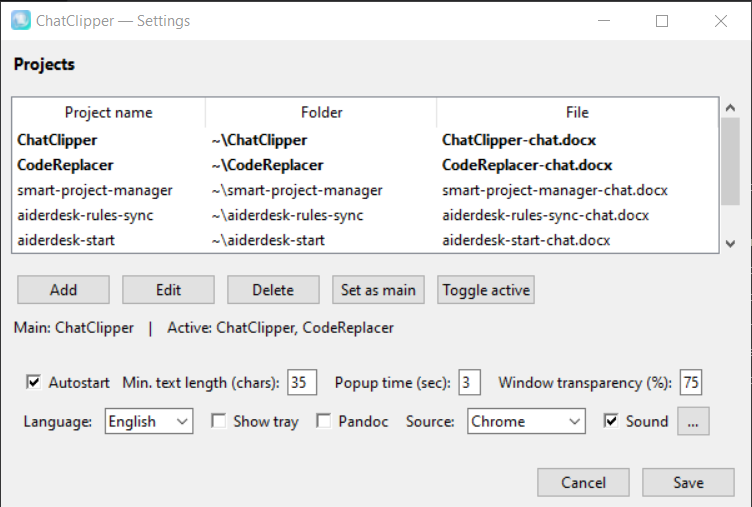
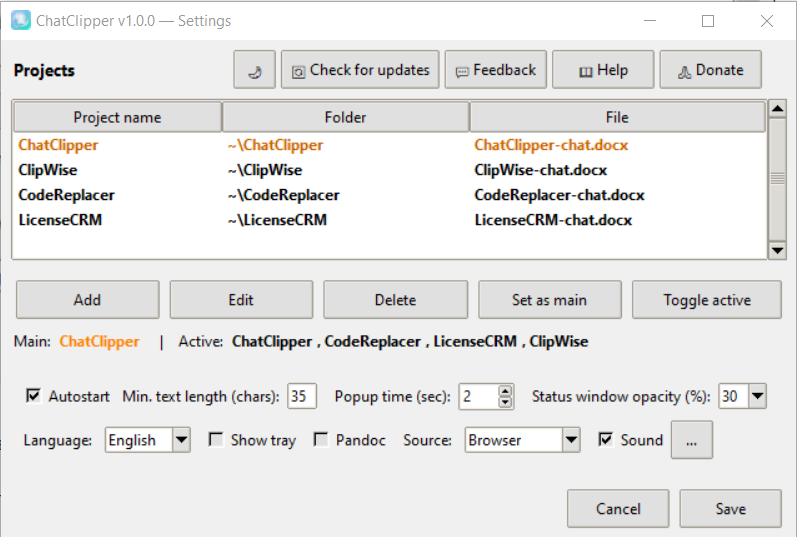
docs: refresh settings and status window screenshots ; describe themes, modal settings, update check and browser source in all manuals

diff --git a/docs/manual-ru.html b/docs/manual-ru.html
@@ -72,7 +72,7 @@ Default в папке <code>~/ChatClipper</code> (домашняя папка п
 <p>Панель можно <b>перетаскивать</b> мышью в любое место экрана. Программа запомнит позицию и в следующий раз откроется там же.</p>
 
 <h2>Окно настроек</h2>
-<p>Открывается кнопкой <b>Settings</b>. Здесь задаются проекты и параметры работы.</p>
+<p>Открывается кнопкой <b>Settings</b>. Здесь задаются проекты и параметры работы. Окно модальное: пока оно открыто, другие окна и панель не реагируют на клики.</p>
 
 <img src="settings-window.png" alt="Окно настроек">
 
@@ -93,11 +93,13 @@ Default в папке <code>~/ChatClipper</code> (домашняя папка п
 <ul>
   <li><b>Min. text length (chars)</b> — минимальная длина скопированного текста. Слишком короткие фрагменты (по умолчанию меньше 35 символов) игнорируются.</li>
   <li><b>Popup time (sec)</b> — сколько секунд показывается окно выбора проекта перед автозакрытием.</li>
-  <li><b>Window transparency (%)</b> — прозрачность окна выбора проекта.</li>
+  <li><b>Непрозрачность окна статуса (%)</b> — непрозрачность окна статуса и окна выбора проекта (30–100, шаг 10).</li>
+  <li><b>Тема</b> — кнопка ☀ / 🌙 в шапке переключает светлую и тёмную темы. Применяется ко всем окнам и к иконке приложения.</li>
+  <li><b>Проверить обновления</b> — ручная проверка GitHub Releases. Также фоновая проверка запускается при старте.</li>
   <li><b>Autostart</b> — запускать ChatClipper вместе с Windows.</li>
   <li><b>Show tray</b> — переключиться на иконку в системном трее вместо панели (см. раздел «Трей» ниже).</li>
   <li><b>Pandoc</b> — использовать Pandoc для конвертации Markdown в Word (если установлен).</li>
-  <li><b>Source</b> — источник копирования: Chrome или другое приложение.</li>
+  <li><b>Source</b> — источник копирования: <b>Browser</b> (Chrome, Opera, Edge, Brave, Vivaldi и другие Chromium-браузеры).</li>
   <li><b>Sound</b> — звук тиканья, который играет, пока программа ждёт копирования. По нажатию «...» открывается список доступных звуков.</li>
   <li><b>Language</b> — язык интерфейса.</li>
 </ul>
@@ -113,12 +115,13 @@ Default в папке <code>~/ChatClipper</code> (домашняя папка п
   <li>Список активных проектов — максимум 9 штук.</li>
   <li>Щелчок по любому из них <b>делает его основным</b> — все последующие записи пойдут в него.</li>
   <li>Если программа на паузе, поверх окна появляется красная метка <b>PAUSE</b>.</li>
+  <li><b>Одиночный клик по метке PAUSE</b> снимает паузу и возобновляет отслеживание.</li>
 </ul>
 <p>Окно можно перетаскивать. Если не трогать — оно автоматически закроется через несколько секунд.</p>
 
 <h2>Как пользоваться</h2>
 <ol>
-  <li>Откройте чат с нейросетью (DeepSeek, ChatGPT, Qwen, GLM и подобные) в Chrome.</li>
+  <li>Откройте чат с нейросетью (DeepSeek, ChatGPT, Qwen, GLM и подобные) в Chromium-браузере (Chrome, Opera, Edge, Brave, Vivaldi).</li>
   <li>Скопируйте ответ одним из двух способов:
     <ul>
       <li>Нажмите кнопку <b>Копировать</b> в интерфейсе чата (рекомендуется —

diff --git a/docs/manual-ja.html b/docs/manual-ja.html
@@ -71,7 +71,7 @@ hr { border: none; border-top: 1px solid #dddddd; margin: 24px 0; }
 <p>パネルはマウスで画面上の任意の場所に<b>ドラッグ</b>できます。アプリはその位置を記憶し、次回そこに開きます。</p>
 
 <h2>設定ウィンドウ</h2>
-<p><b>設定</b>ボタンで開きます。ここでプロジェクトと動作を定義します。</p>
+<p><b>設定</b>ボタンで開きます。ここでプロジェクトと動作を定義します。このウィンドウはモーダルです: 開いている間は他のウィンドウやパネルは反応しません。</p>
 
 <img src="settings-window.png" alt="設定ウィンドウ">
 
@@ -92,11 +92,13 @@ hr { border: none; border-top: 1px solid #dddddd; margin: 24px 0; }
 <ul>
   <li><b>最小テキスト長 (文字)</b> — コピーされたテキストの最小長。短すぎる断片（既定では 35 文字未満）は無視されます。</li>
   <li><b>ポップアップ時間 (秒)</b> — プロジェクト ピッカーが自動で閉じるまで画面に表示される時間。</li>
-  <li><b>ウィンドウの透明度 (%)</b> — プロジェクト ピッカーの透明度。</li>
+  <li><b>ステータス ウィンドウの不透明度 (%)</b> — ステータス ウィンドウとプロジェクト ピッカーの不透明度（30〜100、ステップ 10）。</li>
+  <li><b>テーマ</b> — ヘッダーの ☀ / 🌙 ボタンでライトとダークを切り替えます。すべてのウィンドウとアイコンに適用されます。</li>
+  <li><b>アップデートを確認</b> — GitHub Releases に対する手動チェック。起動時にもバックグラウンド チェックが実行されます。</li>
   <li><b>自動起動</b> — Windows と一緒に ChatClipper を起動します。</li>
   <li><b>トレイを表示</b> — パネルの代わりにトレイ アイコンに切り替えます（以下の「トレイ」セクションを参照）。</li>
   <li><b>Pandoc</b> — Markdown を Word に変換するために Pandoc を使用します（インストールされている場合）。</li>
-  <li><b>ソース</b> — コピー元: Chrome または別のアプリ。</li>
+  <li><b>ソース</b> — コピー元: <b>Browser</b>（Chrome、Opera、Edge、Brave、Vivaldi などの Chromium ベースのブラウザ）。</li>
   <li><b>サウンド</b> — コピーを待つ間に再生されるカチッという音。「...」をクリックして利用可能なサウンドから選択します。</li>
   <li><b>言語</b> — インターフェイス言語。</li>
 </ul>
@@ -112,12 +114,13 @@ hr { border: none; border-top: 1px solid #dddddd; margin: 24px 0; }
   <li>アクティブなプロジェクトの一覧 — 最大 9 項目。</li>
   <li>いずれかをクリックすると、<b>それがメイン プロジェクトになります</b>。以降のすべての書き込みはそこに送られます。</li>
   <li>アプリが一時停止しているときは、赤い <b>PAUSE</b> スタンプがウィンドウの上に表示されます。</li>
+  <li><b>PAUSE スタンプを 1 回クリック</b>すると追跡が再開されます。</li>
 </ul>
 <p>ウィンドウはドラッグできます。そのままにしておくと、数秒後に自動的に閉じます。</p>
 
 <h2>使用方法</h2>
 <ol>
-  <li>Chrome で AI チャット（DeepSeek、ChatGPT、Qwen、GLM など）を開きます。</li>
+  <li>Chromium ベースのブラウザ（Chrome、Opera、Edge、Brave、Vivaldi）で AI チャット（DeepSeek、ChatGPT、Qwen、GLM など）を開きます。</li>
   <li>返信を次のいずれかの方法でコピーします:
     <ul>
       <li>チャット UI の <b>コピー</b> ボタンをクリック（推奨 — HTML の

diff --git a/docs/manual-es.html b/docs/manual-es.html
@@ -71,7 +71,7 @@ detiene en pausa y se reanuda al volver a iniciar.</p>
 <p>El panel se puede <b>arrastrar</b> con el ratón a cualquier parte de la pantalla. La aplicación recuerda su posición y se abre allí la próxima vez.</p>
 
 <h2>Ventana de configuración</h2>
-<p>Se abre con el botón <b>Configuración</b>. Aquí defines proyectos y comportamiento.</p>
+<p>Se abre con el botón <b>Configuración</b>. Aquí defines proyectos y comportamiento. La ventana es modal: mientras está abierta, otras ventanas y el panel no responden.</p>
 
 <img src="settings-window.png" alt="Ventana de configuración">
 
@@ -92,11 +92,13 @@ detiene en pausa y se reanuda al volver a iniciar.</p>
 <ul>
   <li><b>Longitud mínima del texto (caracteres)</b> — longitud mínima del texto copiado. Los fragmentos demasiado cortos (por defecto menos de 35 caracteres) se ignoran.</li>
   <li><b>Tiempo de la ventana emergente (s)</b> — cuánto tiempo permanece en pantalla el selector de proyectos antes de cerrarse automáticamente.</li>
-  <li><b>Transparencia de la ventana (%)</b> — transparencia del selector de proyectos.</li>
+  <li><b>Opacidad de la ventana de estado (%)</b> — opacidad de la ventana de estado y del selector de proyectos (30–100, paso 10).</li>
+  <li><b>Tema</b> — el botón ☀ / 🌙 en el encabezado alterna entre tema claro y oscuro. Se aplica a todas las ventanas y al icono.</li>
+  <li><b>Buscar actualizaciones</b> — comprobación manual contra GitHub Releases. También se ejecuta una comprobación en segundo plano al iniciar.</li>
   <li><b>Inicio automático</b> — iniciar ChatClipper junto con Windows.</li>
   <li><b>Mostrar bandeja</b> — cambiar a un icono de bandeja en lugar del panel (ver la sección "Bandeja" más abajo).</li>
   <li><b>Pandoc</b> — usar Pandoc para convertir Markdown a Word (si está instalado).</li>
-  <li><b>Origen</b> — origen de copia: Chrome u otra aplicación.</li>
+  <li><b>Origen</b> — origen de copia: <b>Browser</b> (Chrome, Opera, Edge, Brave, Vivaldi y otros navegadores basados en Chromium).</li>
   <li><b>Sonido</b> — sonido de tic que se reproduce mientras se espera una copia. Haz clic en "..." para elegir entre los sonidos disponibles.</li>
   <li><b>Idioma</b> — idioma de la interfaz.</li>
 </ul>
@@ -112,12 +114,13 @@ detiene en pausa y se reanuda al volver a iniciar.</p>
   <li>La lista de proyectos activos: como máximo 9 elementos.</li>
   <li>Al hacer clic en cualquiera de ellos <b>lo convierte en el proyecto principal</b>: todas las escrituras posteriores van allí.</li>
   <li>Cuando la aplicación está pausada, aparece un sello rojo <b>PAUSE</b> sobre la ventana.</li>
+  <li><b>Un solo clic en el sello PAUSE</b> reanuda el seguimiento.</li>
 </ul>
 <p>La ventana se puede arrastrar. Si se deja sola, se cierra automáticamente tras unos segundos.</p>
 
 <h2>Cómo usarlo</h2>
 <ol>
-  <li>Abre un chat con IA (DeepSeek, ChatGPT, Qwen, GLM y similares) en Chrome.</li>
+  <li>Abre un chat con IA (DeepSeek, ChatGPT, Qwen, GLM y similares) en un navegador Chromium (Chrome, Opera, Edge, Brave, Vivaldi).</li>
   <li>Copia la respuesta de una de dos formas:
     <ul>
       <li>Haz clic en el botón <b>Copiar</b> de la interfaz del chat

diff --git a/docs/manual-de.html b/docs/manual-de.html
@@ -72,7 +72,7 @@ zurück.</p>
 <p>Das Bedienfeld lässt sich mit der Maus <b>verschieben</b>. Die Position wird gespeichert und beim nächsten Start wiederverwendet.</p>
 
 <h2>Einstellungsfenster</h2>
-<p>Wird über die Schaltfläche <b>Einstellungen</b> geöffnet. Hier werden Projekte und Verhalten festgelegt.</p>
+<p>Wird über die Schaltfläche <b>Einstellungen</b> geöffnet. Hier werden Projekte und Verhalten festgelegt. Das Fenster ist modal: solange es offen ist, reagieren andere Fenster und das Bedienfeld nicht.</p>
 
 <img src="settings-window.png" alt="Einstellungsfenster">
 
@@ -93,11 +93,13 @@ zurück.</p>
 <ul>
   <li><b>Min. Textlänge (Zeichen)</b> — Mindestlänge des kopierten Textes. Zu kurze Fragmente (standardmäßig weniger als 35 Zeichen) werden ignoriert.</li>
   <li><b>Popup-Zeit (Sek.)</b> — wie lange die Projektauswahl angezeigt wird, bevor sie sich automatisch schließt.</li>
-  <li><b>Fenstertransparenz (%)</b> — Transparenz der Projektauswahl.</li>
+  <li><b>Deckkraft des Statusfensters (%)</b> — Deckkraft von Statusfenster und Projektauswahl (30–100, Schritt 10).</li>
+  <li><b>Thema</b> — die Schaltfläche ☀ / 🌙 im Kopfbereich wechselt zwischen hellem und dunklem Thema. Gilt für alle Fenster und das App-Symbol.</li>
+  <li><b>Nach Updates suchen</b> — manuelle Prüfung gegen GitHub Releases. Beim Start läuft zusätzlich eine Hintergrundprüfung.</li>
   <li><b>Autostart</b> — ChatClipper zusammen mit Windows starten.</li>
   <li><b>Tray anzeigen</b> — stattdessen ein Tray-Symbol verwenden (siehe Abschnitt "Tray" unten).</li>
   <li><b>Pandoc</b> — Pandoc verwenden, um Markdown in Word umzuwandeln (falls installiert).</li>
-  <li><b>Quelle</b> — Quelle des Kopierens: Chrome oder eine andere Anwendung.</li>
+  <li><b>Quelle</b> — Quelle des Kopierens: <b>Browser</b> (Chrome, Opera, Edge, Brave, Vivaldi und andere Chromium-basierte Browser).</li>
   <li><b>Ton</b> — Ticken im Wartemodus. Klicken Sie auf "...", um einen Ton auszuwählen.</li>
   <li><b>Sprache</b> — Sprache der Oberfläche.</li>
 </ul>
@@ -113,12 +115,13 @@ zurück.</p>
   <li>Die Liste der aktiven Projekte — maximal 9 Einträge.</li>
   <li>Ein Klick auf einen Eintrag <b>macht ihn zum Hauptprojekt</b> — alle weiteren Einträge gehen dorthin.</li>
   <li>Wenn das Programm pausiert ist, erscheint ein rotes <b>PAUSE</b>-Siegel über dem Fenster.</li>
+  <li><b>Einzelklick auf das PAUSE-Siegel</b> hebt die Pause auf und setzt die Überwachung fort.</li>
 </ul>
 <p>Das Fenster ist verschiebbar. Wird es nicht berührt, schließt es sich nach einigen Sekunden automatisch.</p>
 
 <h2>Bedienung</h2>
 <ol>
-  <li>Öffnen Sie einen KI-Chat (DeepSeek, ChatGPT, Qwen, GLM und ähnliche) in Chrome.</li>
+  <li>Öffnen Sie einen KI-Chat (DeepSeek, ChatGPT, Qwen, GLM und ähnliche) in einem Chromium-basierten Browser (Chrome, Opera, Edge, Brave, Vivaldi).</li>
   <li>Kopieren Sie die Antwort auf eine von zwei Arten:
     <ul>
       <li>Klicken Sie die Schaltfläche <b>Kopieren</b> in der Chat-Oberfläche

diff --git a/docs/manual-en.html b/docs/manual-en.html
@@ -71,7 +71,7 @@ sound stops while the app is paused and resumes when you start it again.</p>
 <p>The panel can be <b>dragged</b> with the mouse anywhere on the screen. The app remembers its position and opens there next time.</p>
 
 <h2>Settings window</h2>
-<p>Opened by the <b>Settings</b> button. Here you define projects and behaviour.</p>
+<p>Opened by the <b>Settings</b> button. Here you define projects and behaviour. The window is modal: while it is open, other windows and the control panel do not respond.</p>
 
 <img src="settings-window.png" alt="Settings window">
 
@@ -92,11 +92,13 @@ sound stops while the app is paused and resumes when you start it again.</p>
 <ul>
   <li><b>Min. text length (chars)</b> — minimum length of copied text. Too-short fragments (by default less than 35 characters) are ignored.</li>
   <li><b>Popup time (sec)</b> — how long the project picker stays on screen before auto-close.</li>
-  <li><b>Window transparency (%)</b> — transparency of the project picker.</li>
+  <li><b>Status window opacity (%)</b> — opacity of the status window and the project picker (30–100, step 10).</li>
+  <li><b>Theme</b> — the ☀ / 🌙 button in the header switches between light and dark themes. Applies to all windows and the app icon.</li>
+  <li><b>Check for updates</b> — manual check against GitHub Releases. A background check also runs at startup.</li>
   <li><b>Autostart</b> — start ChatClipper together with Windows.</li>
   <li><b>Show tray</b> — switch to a tray icon instead of the panel (see the "Tray" section below).</li>
   <li><b>Pandoc</b> — use Pandoc to convert Markdown to Word (if installed).</li>
-  <li><b>Source</b> — copy source: Chrome or another app.</li>
+  <li><b>Source</b> — copy source: <b>Browser</b> (Chrome, Opera, Edge, Brave, Vivaldi and other Chromium-based browsers).</li>
   <li><b>Sound</b> — ticking sound that plays while waiting for a copy. Click "..." to choose from available sounds.</li>
   <li><b>Language</b> — interface language.</li>
 </ul>
@@ -112,12 +114,13 @@ sound stops while the app is paused and resumes when you start it again.</p>
   <li>The list of active projects — at most 9 items.</li>
   <li>Clicking any of them <b>makes it the main project</b> — all subsequent writes go there.</li>
   <li>When the app is paused, a red <b>PAUSE</b> stamp appears over the window.</li>
+  <li><b>Single click on the PAUSE stamp</b> resumes tracking.</li>
 </ul>
 <p>The window can be dragged. If left alone, it closes automatically after a few seconds.</p>
 
 <h2>How to use</h2>
 <ol>
-  <li>Open the AI chat in Chrome (DeepSeek, ChatGPT, Qwen, GLM and similar).</li>
+  <li>Open the AI chat in a Chromium-based browser (Chrome, Opera, Edge, Brave, Vivaldi).</li>
   <li>Copy the reply in one of two ways:
     <ul>
       <li>Click the <b>Copy</b> button shown in the chat UI (recommended —
